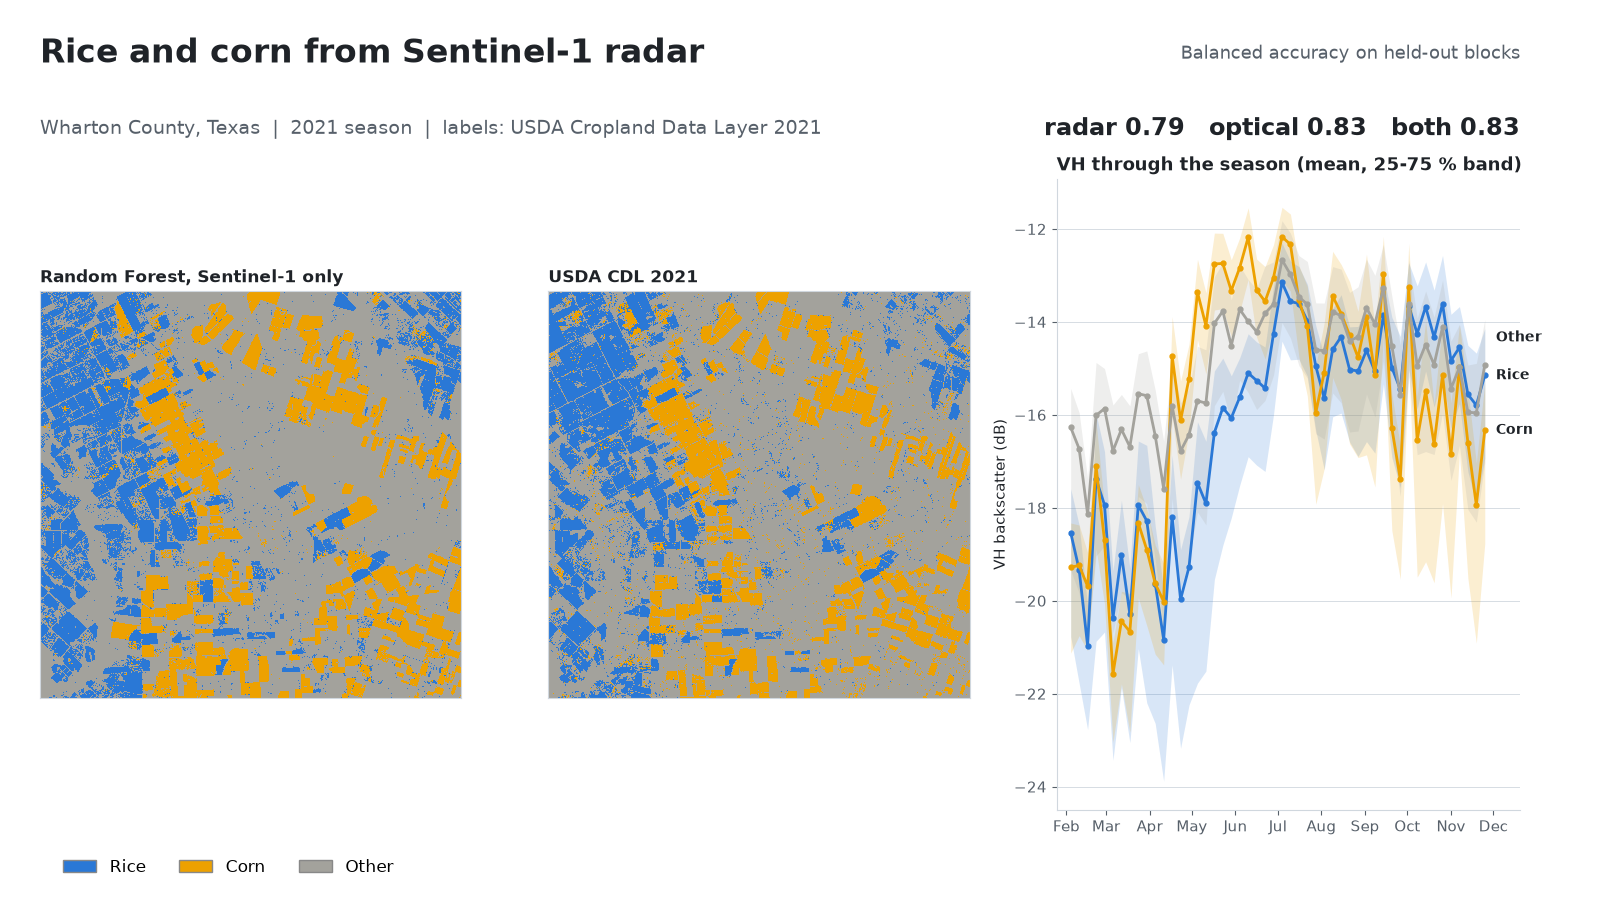
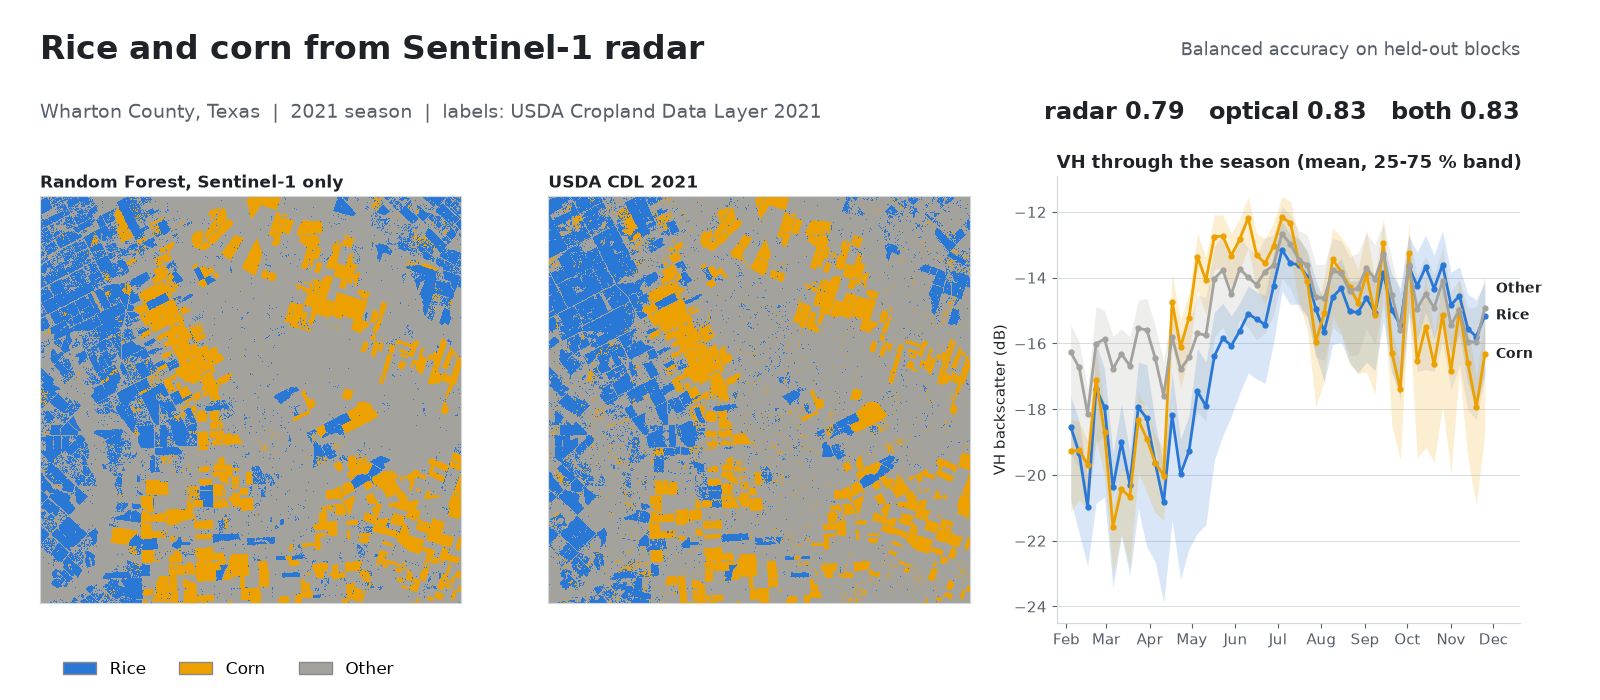
Figures: tighter hero layout, label only headline values

diff --git a/ricemap/plots.py b/ricemap/plots.py
@@ -156,8 +156,10 @@ def clear_observations(clear_total, clear_by_month, s2meta, s1meta, extent, path
     for k, (vals, col, lab) in enumerate(bars):
         off = (k - 1) * (w + 0.02)
         ax2.bar(xs + off, vals, w, color=col, label=lab)
-        for j in range(len(xs)):
-            ax2.text(xs[j] + off, vals[j] + 0.1, f"{vals[j]:g}", ha="center", va="bottom", fontsize=8.5, color=INK)
+        if k == 2:  # label only the clear views, the point of the chart
+            for j in range(len(xs)):
+                ax2.text(xs[j] + off, vals[j] + 0.1, f"{vals[j]:g}", ha="center", va="bottom", fontsize=9,
+                         weight="bold", color=INK)
     ax2.set_xticks(xs, labels)
     ax2.set_ylim(0, max(s1.max(), s2n.max()) + 2.5)
     ax2.set_ylabel("observations per month")
@@ -187,7 +189,8 @@ def model_comparison(cv, inseason, cloud_gap, path):
             ax.plot([lo - 0.5 * span, v], [i + off] * 2, color=GRID, linewidth=1, zorder=1)
             ax.plot(v, i + off, marker=mk, color=col, markersize=7, linestyle="none", zorder=3,
                     label=name if i == 0 else None)
-            ax.text(v + 0.03 * span, i + off, f"{v:.3f}", va="center", fontsize=8, color=INK)
+            if s == "test":  # label only the headline score; the rest are read from the axis
+                ax.text(v + 0.03 * span, i + off, f"{v:.3f}", va="center", fontsize=9, weight="bold", color=INK)
     labels = []
     for k in keys:
         fs, m, _ = k.split("|")
@@ -318,9 +321,9 @@ def map_comparison(maps, ref, colors, extent, test_mask, path, subtitle=""):
 
 def hero_figure(map_s1, ref, colors, extent, curves, ba, path, place, year):
     """16:9 card: radar-only map, CDL, and the VH curves that make it possible."""
-    fig = plt.figure(figsize=(16, 9), dpi=100)
-    gs = fig.add_gridspec(2, 3, width_ratios=[1, 1, 1.1], height_ratios=[0.17, 1], left=0.025, right=0.95,
-                          top=0.97, bottom=0.1, wspace=0.2, hspace=0.12)
+    fig = plt.figure(figsize=(16, 7), dpi=100)
+    gs = fig.add_gridspec(2, 3, width_ratios=[1, 1, 1.1], height_ratios=[0.2, 1], left=0.025, right=0.95,
+                          top=0.96, bottom=0.11, wspace=0.2, hspace=0.22)
     head = fig.add_subplot(gs[0, :])
     head.axis("off")
     head.text(0, 0.75, "Rice and corn from Sentinel-1 radar", fontsize=24, weight="bold", color=INK, va="center")
